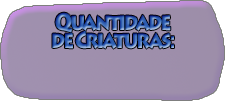
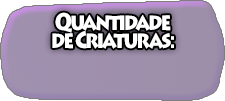
Melhoria na legibilidade da história e na HUD e no alerta do mouse.

Changed region(s): [[0.1867, 0.0891, 0.8089, 0.5347]]

diff --git a/js/main.js b/js/main.js
@@ -741,7 +741,7 @@ function draw(){
     } else if (menu == -0.5){
       tempoImagem += 0.1;
       fill(255);
-      strokeWeight(3);
+      strokeWeight(5);
       stroke(0);
       textFont(fonte, 24);
       textStyle(BOLD);
@@ -817,10 +817,10 @@ function draw(){
       if (tempoImagem >= 30){
         if (frameHistoria >= 0 && frameHistoria < 10 || frameHistoria >= 20 && frameHistoria < 30){
           imgm = humanoImagem[2].get(0, 0, 32, 32);
-          image(imgm, 40, 40);
+          image(imgm, mouseX - 30, mouseY - 30);//40, 40);
         } else {
           imgm = humanoImagem[2].get(32, 0, 32, 32);
-          image(imgm, 40, 40);
+          image(imgm, mouseX - 30, mouseY - 30);//40, 40);
         }
         frameHistoria += 0.4;
         if (frameHistoria >= 40){
@@ -951,7 +951,7 @@ function draw(){
     } else if (menu == 2){ // fim do jogo
       tempoImagem += 0.1;
       fill(255);
-      strokeWeight(3);
+      strokeWeight(5);
       stroke(0);
       textFont(fonte, 24);
       textStyle(BOLD);
@@ -1110,10 +1110,10 @@ function draw(){
       if (tempoImagem >= 30 && imagemAtual != 10){
         if (frameHistoria >= 0 && frameHistoria < 10 || frameHistoria >= 20 && frameHistoria < 30){
           imgm = humanoImagem[2].get(0, 0, 32, 32);
-          image(imgm, 40, 40);
+          image(imgm, mouseX - 30, mouseY - 30);
         } else {
           imgm = humanoImagem[2].get(32, 0, 32, 32);
-          image(imgm, 40, 40);
+          image(imgm, mouseX - 30, mouseY - 30);
         }
         frameHistoria += 0.4;
         if (frameHistoria >= 40){
